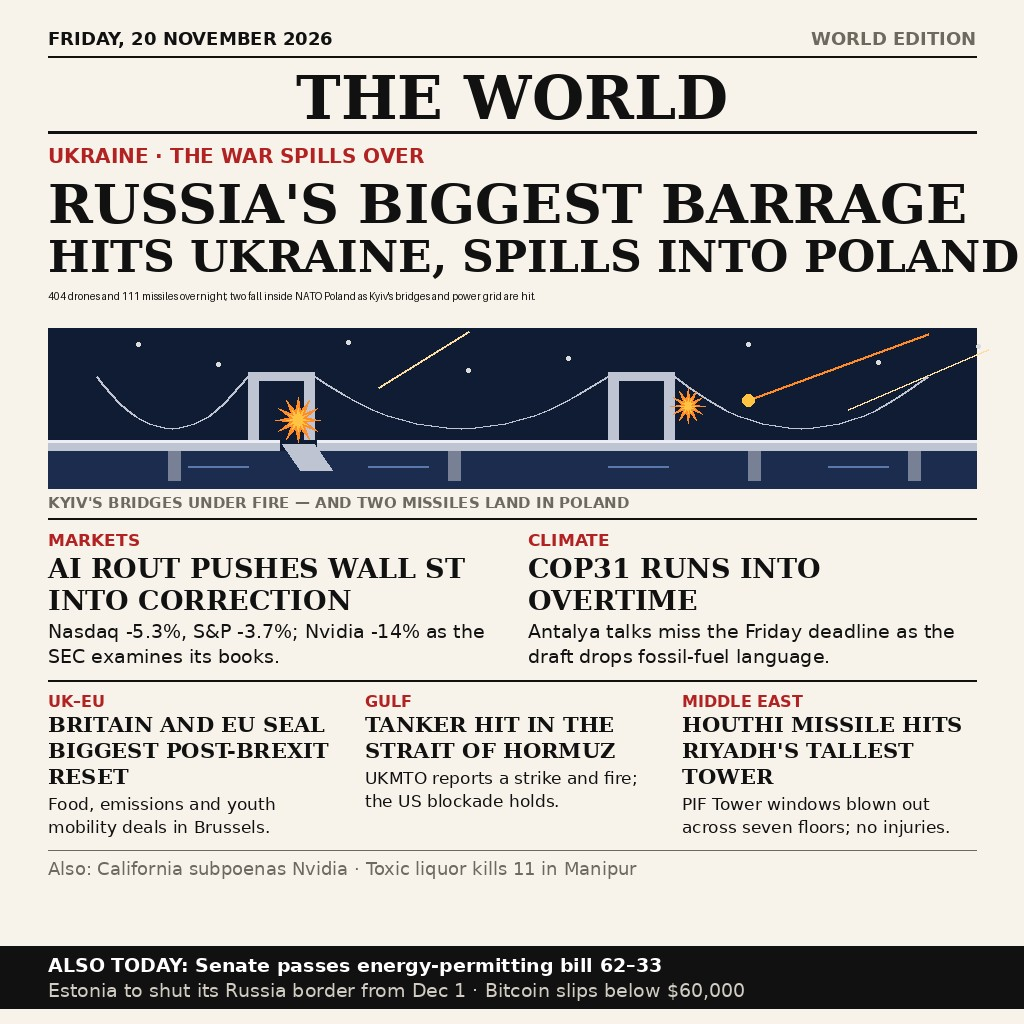
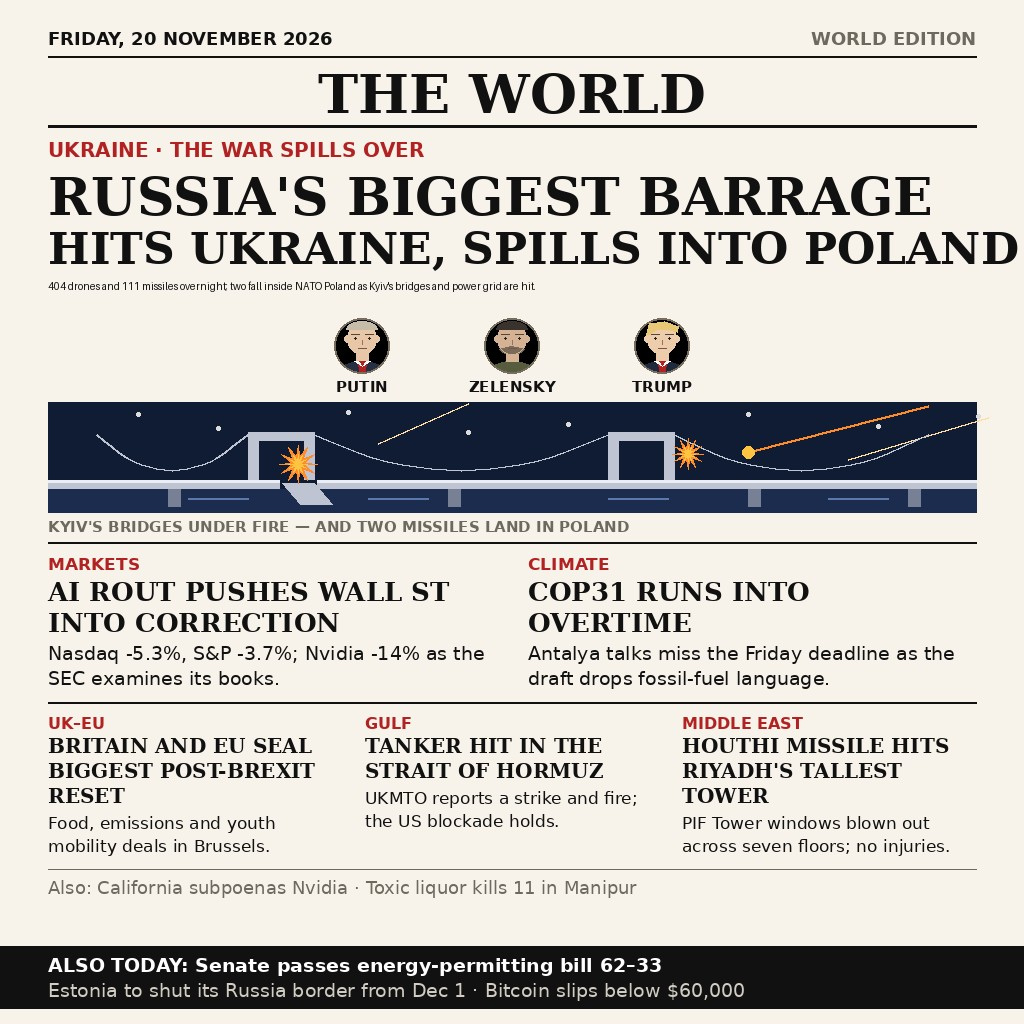
v3: portrait medallions of Putin, Zelensky and Trump under the lead

Changed region(s): [[0.0312, 0.0625, 1.0, 0.875]]

diff --git a/gen_image.py b/gen_image.py
@@ -1,13 +1,13 @@
-"""Generate THE WORLD front page for Friday 20 November 2026 (v2).
+"""Generate THE WORLD front page for Friday 20 November 2026 (v3).
 
 Draws the whole page with PIL primitives only (no external assets, no
 network). Deterministic: same input always writes the same bytes.
 Run:  python3 gen_image.py   (writes entry.png next to this file)
 
-v2 changes vs v1: the Markets headline no longer strands "ST" on its own
-line ("AI ROUT PUSHES WALL ST INTO CORRECTION"); the bridge illustration
-drops the arches, shows its piers, and has a broken deck section with a
-tilted slab falling where the blast hit.
+v3 changes vs v2: a row of portrait medallions of the day's three central
+figures — Putin, Zelensky and Trump — between the subhead and the lead
+illustration; the illustration is shorter to make room, and the masthead
+and headlines are tightened slightly.
 """
 import math
 import os
@@ -82,6 +82,65 @@ def burst(draw, cx, cy, r, color, rays=12):
     draw.polygon(pts, fill=color)
 
 
+def medallion(img, cx, top, size, skin, hair_color, hair_style, shirt, tie, stubble):
+    """Draw a stylised bust portrait clipped to a circle, centred at (cx, top).
+
+    hair_style: 'swoop' (side-swept blond), 'short' (receding, light),
+    'cap' (short dark crop). stubble=True darkens the jaw. tie=None for
+    a crew-neck shirt instead of suit + tie.
+    """
+    layer = Image.new("RGBA", (size, size), (0, 0, 0, 0))
+    d = ImageDraw.Draw(layer)
+    c = size // 2
+    # shoulders / shirt
+    d.ellipse([c - size * 0.48, size * 0.78, c + size * 0.48, size * 1.35], fill=shirt)
+    # neck
+    d.rectangle([c - 6, size * 0.58, c + 6, size * 0.78], fill=skin)
+    # tie
+    if tie:
+        d.polygon([(c - 4, size * 0.78), (c + 4, size * 0.78),
+                   (c + 3, size * 0.98), (c, size * 1.02), (c - 3, size * 0.98)], fill=tie)
+        d.polygon([(c - 8, size * 0.78), (c, size * 0.86), (c - 4, size * 0.78)], fill=(255, 255, 255))
+        d.polygon([(c + 8, size * 0.78), (c, size * 0.86), (c + 4, size * 0.78)], fill=(255, 255, 255))
+    # head
+    hx0, hy0 = c - size * 0.26, size * 0.10
+    hx1, hy1 = c + size * 0.26, size * 0.66
+    d.ellipse([hx0, hy0, hx1, hy1], fill=skin)
+    # ears
+    d.ellipse([hx0 - 3, size * 0.32, hx0 + 2, size * 0.44], fill=skin)
+    d.ellipse([hx1 - 2, size * 0.32, hx1 + 3, size * 0.44], fill=skin)
+    # stubble: darker jaw
+    if stubble:
+        d.pieslice([hx0 + 1, size * 0.34, hx1 - 1, hy1], 20, 160, fill=(122, 106, 90))
+        d.ellipse([hx0, hy0, hx1, hy1], outline=skin, width=1)
+    # hair
+    if hair_style == "swoop":
+        # side-swept blond, combed over to the figure's left
+        d.polygon([(hx0 - 1, size * 0.30), (hx0 + 2, size * 0.10),
+                   (c + 2, size * 0.06), (hx1 + 2, size * 0.16),
+                   (hx1 + 1, size * 0.26), (c + 4, size * 0.20),
+                   (c - 6, size * 0.22), (hx0 + 2, size * 0.30)], fill=hair_color)
+    elif hair_style == "short":
+        # receding light hair: a band over the top, forehead exposed
+        d.pieslice([hx0 - 1, hy0 - 2, hx1 + 1, size * 0.34], 180, 360, fill=hair_color)
+    else:  # cap
+        d.pieslice([hx0 - 1, hy0 - 2, hx1 + 1, size * 0.36], 180, 360, fill=hair_color)
+    # eyes, brows, nose, mouth (kept minimal at this size)
+    eye_y = size * 0.36
+    for ex in (c - 7, c + 7):
+        d.ellipse([ex - 1, eye_y - 1, ex + 1, eye_y + 1], fill=(40, 32, 28))
+        d.line([(ex - 4, eye_y - 4), (ex + 4, eye_y - 4)], fill=(90, 70, 55), width=1)
+    d.line([(c, size * 0.40), (c, size * 0.48)], fill=(150, 115, 95), width=1)
+    d.line([(c - 4, size * 0.55), (c + 4, size * 0.55)], fill=(120, 85, 75), width=1)
+    # clip to a circle and paste
+    mask = Image.new("L", (size, size), 0)
+    ImageDraw.Draw(mask).ellipse([0, 0, size - 1, size - 1], fill=255)
+    img.paste(layer, (cx - c, top), mask)
+    # ring
+    ImageDraw.Draw(img).ellipse([cx - c, top, cx + c - 1, top + size - 1],
+                                outline=(120, 110, 95), width=2)
+
+
 def main():
     img = Image.new("RGB", (W, H), PAPER)
     d = ImageDraw.Draw(img)
@@ -98,9 +157,9 @@ def main():
     # ---- masthead ----
     y += 6
     mast = "THE WORLD"
-    f_mast = SERIF_B(60)
+    f_mast = SERIF_B(54)
     d.text(((W - d.textlength(mast, font=f_mast)) / 2, y), mast, font=f_mast, fill=INK)
-    y += 70
+    y += 64
     d.line([(MARGIN, y), (W - MARGIN, y)], fill=INK, width=3)
     y += 12
 
@@ -109,11 +168,11 @@ def main():
     y += 28
     headline = ["RUSSIA'S BIGGEST BARRAGE", "HITS UKRAINE, SPILLS INTO POLAND"]
     for line in headline:
-        size = 54
+        size = 52
         while d.textlength(line, font=SERIF_B(size)) > USABLE and size > 44:
             size -= 2
         d.text((MARGIN, y), line, font=SERIF_B(size), fill=INK)
-        y += 58
+        y += 56
     y += 2
 
     # ---- subhead ----
@@ -123,20 +182,38 @@ def main():
     y = draw_lines(d, lines, MARGIN, y, SERIF_I(23), INK, 30)
     y += 8
 
+    # ---- the day's faces: Putin, Zelensky, Trump ----
+    med_size = 56
+    med_top = y
+    gap = 150
+    start_x = W // 2 - gap
+    faces = [
+        ("PUTIN", (232, 198, 168), (198, 188, 168), "short", (38, 48, 66), (178, 34, 34), False),
+        ("ZELENSKY", (214, 178, 148), (58, 50, 44), "cap", (88, 92, 62), None, True),
+        ("TRUMP", (238, 205, 172), (232, 200, 118), "swoop", (32, 42, 62), (178, 34, 34), False),
+    ]
+    for i, (name, skin, hair, style, shirt, tie, stubble) in enumerate(faces):
+        cx = start_x + i * gap
+        medallion(img, cx, med_top, med_size, skin, hair, style, shirt, tie, stubble)
+        nw = d.textlength(name, font=SANS_B(15))
+        d.text((cx - nw / 2, med_top + med_size + 4), name, font=SANS_B(15), fill=INK)
+    y = med_top + med_size + 22
+    y += 6
+
     # ---- illustration: a suspension bridge at night, hit and broken ----
     ill_top = y
-    ill_h = 160
+    ill_h = 110
     d.rectangle([MARGIN, ill_top, W - MARGIN, ill_top + ill_h], fill=NAVY)
-    for (sx, sy) in [(90, 16), (170, 36), (300, 14), (520, 30), (700, 16),
-                     (830, 34), (930, 18), (420, 42), (620, 46)]:
+    for (sx, sy) in [(90, 12), (170, 26), (300, 10), (520, 22), (700, 12),
+                     (830, 24), (930, 14), (420, 30), (620, 32)]:
         d.ellipse([MARGIN + sx - 2, ill_top + sy - 2, MARGIN + sx + 2, ill_top + sy + 2],
                   fill=(220, 220, 220))
     # missile trails diving in from the top right
-    d.line([(MARGIN + 880, ill_top + 6), (MARGIN + 700, ill_top + 72)], fill=ORANGE, width=3)
-    d.line([(MARGIN + 940, ill_top + 22), (MARGIN + 800, ill_top + 82)], fill=(255, 220, 160), width=2)
-    d.ellipse([MARGIN + 694, ill_top + 66, MARGIN + 706, ill_top + 78], fill=GOLD)
-    d.line([(MARGIN + 420, ill_top + 4), (MARGIN + 330, ill_top + 60)], fill=(255, 220, 160), width=2)
-    deck_y = ill_top + 112
+    d.line([(MARGIN + 880, ill_top + 4), (MARGIN + 700, ill_top + 50)], fill=ORANGE, width=3)
+    d.line([(MARGIN + 940, ill_top + 16), (MARGIN + 800, ill_top + 58)], fill=(255, 220, 160), width=2)
+    d.ellipse([MARGIN + 694, ill_top + 44, MARGIN + 706, ill_top + 56], fill=GOLD)
+    d.line([(MARGIN + 420, ill_top + 2), (MARGIN + 330, ill_top + 42)], fill=(255, 220, 160), width=2)
+    deck_y = ill_top + 78
     steel = (190, 196, 210)
 
     def cable(x0, x1, y_top, sag):
@@ -150,31 +227,31 @@ def main():
 
     # towers: pairs of verticals with a top crossbar
     for tx in (MARGIN + 200, MARGIN + 560):
-        d.rectangle([tx, ill_top + 44, tx + 10, deck_y], fill=steel)
-        d.rectangle([tx + 56, ill_top + 44, tx + 66, deck_y], fill=steel)
-        d.rectangle([tx, ill_top + 44, tx + 66, ill_top + 52], fill=steel)
-    cable(MARGIN + 48, MARGIN + 200, ill_top + 48, 52)
-    cable(MARGIN + 266, MARGIN + 560, ill_top + 48, 52)
-    cable(MARGIN + 626, MARGIN + 880, ill_top + 48, 52)
+        d.rectangle([tx, ill_top + 30, tx + 10, deck_y], fill=steel)
+        d.rectangle([tx + 56, ill_top + 30, tx + 66, deck_y], fill=steel)
+        d.rectangle([tx, ill_top + 30, tx + 66, ill_top + 38], fill=steel)
+    cable(MARGIN + 48, MARGIN + 200, ill_top + 32, 36)
+    cable(MARGIN + 266, MARGIN + 560, ill_top + 32, 36)
+    cable(MARGIN + 626, MARGIN + 880, ill_top + 32, 36)
     # river, then piers over it, then the deck band
-    d.rectangle([MARGIN, deck_y + 10, W - MARGIN, ill_top + ill_h], fill=NAVY2)
+    d.rectangle([MARGIN, deck_y + 8, W - MARGIN, ill_top + ill_h], fill=NAVY2)
     for px in (MARGIN + 120, MARGIN + 400, MARGIN + 700, MARGIN + 860):
-        d.rectangle([px, deck_y + 10, px + 12, ill_top + ill_h - 8], fill=(120, 128, 150))
-    d.rectangle([MARGIN, deck_y, W - MARGIN, deck_y + 10], fill=steel)
+        d.rectangle([px, deck_y + 8, px + 12, ill_top + ill_h - 6], fill=(120, 128, 150))
+    d.rectangle([MARGIN, deck_y, W - MARGIN, deck_y + 8], fill=steel)
     d.rectangle([MARGIN, deck_y, W - MARGIN, deck_y + 2], fill=(235, 238, 245))
     for rx in (140, 320, 560, 780):
-        d.line([(MARGIN + rx, ill_top + ill_h - 22), (MARGIN + rx + 60, ill_top + ill_h - 22)],
+        d.line([(MARGIN + rx, ill_top + ill_h - 14), (MARGIN + rx + 60, ill_top + ill_h - 14)],
                fill=(90, 120, 170), width=2)
     # broken deck: a gap where the blast hit, with a tilted slab falling
     gap_x = MARGIN + 232
-    d.rectangle([gap_x, deck_y, gap_x + 36, deck_y + 10], fill=NAVY)
-    d.polygon([(gap_x + 2, deck_y + 4), (gap_x + 34, deck_y + 4),
-               (gap_x + 52, deck_y + 30), (gap_x + 20, deck_y + 30)], fill=steel)
+    d.rectangle([gap_x, deck_y, gap_x + 36, deck_y + 8], fill=NAVY)
+    d.polygon([(gap_x + 2, deck_y + 3), (gap_x + 34, deck_y + 3),
+               (gap_x + 52, deck_y + 24), (gap_x + 20, deck_y + 24)], fill=steel)
     # explosions over the deck
-    burst(d, MARGIN + 250, ill_top + 92, 12, ORANGE)
-    burst(d, MARGIN + 250, ill_top + 92, 6, GOLD)
-    burst(d, MARGIN + 640, ill_top + 78, 9, ORANGE)
-    burst(d, MARGIN + 640, ill_top + 78, 4, GOLD)
+    burst(d, MARGIN + 250, ill_top + 62, 10, ORANGE)
+    burst(d, MARGIN + 250, ill_top + 62, 5, GOLD)
+    burst(d, MARGIN + 640, ill_top + 52, 8, ORANGE)
+    burst(d, MARGIN + 640, ill_top + 52, 4, GOLD)
     y = ill_top + ill_h + 6
     d.text((MARGIN, y), "KYIV'S BRIDGES UNDER FIRE — AND TWO MISSILES LAND IN POLAND",
            font=SANS_B(15), fill=GREY)
@@ -199,8 +276,8 @@ def main():
         yy = row_y
         d.text((x, yy), kick, font=SANS_B(17), fill=RED)
         yy += 22
-        hl = fit(d, head, SERIF_B(27), col_w, 2)
-        yy = draw_lines(d, hl, x, yy, SERIF_B(27), INK, 32)
+        hl = fit(d, head, SERIF_B(26), col_w, 2)
+        yy = draw_lines(d, hl, x, yy, SERIF_B(26), INK, 31)
         yy += 4
         bl = fit(d, body, SANS(19), col_w, 2)
         yy = draw_lines(d, bl, x, yy, SANS(19), INK, 25)
@@ -229,8 +306,8 @@ def main():
         yy = row_y
         d.text((x, yy), kick, font=SANS_B(16), fill=RED)
         yy += 20
-        hl = fit(d, head, SERIF_B(21), col3, 3)
-        yy = draw_lines(d, hl, x, yy, SERIF_B(21), INK, 26)
+        hl = fit(d, head, SERIF_B(20), col3, 3)
+        yy = draw_lines(d, hl, x, yy, SERIF_B(20), INK, 25)
         yy += 4
         bl = fit(d, body, SANS(17), col3, 2)
         yy = draw_lines(d, bl, x, yy, SANS(17), INK, 23)

diff --git a/README.md b/README.md
@@ -8,7 +8,8 @@ missiles overnight — hitting Kyiv's bridges and power grid, with two missiles
 landing inside NATO member Poland. Also: the AI sell-off pushes Wall Street into
 correction, COP31 runs into overtime in Antalya, Britain and the EU seal their
 biggest post-Brexit reset, a tanker is hit in the Strait of Hormuz, and a Houthi
-missile damages Riyadh's tallest tower.
+missile damages Riyadh's tallest tower. Portrait medallions of the day's three
+central figures — Putin, Zelensky and Trump — sit under the lead headline.
 
 Regenerate the image:
 
